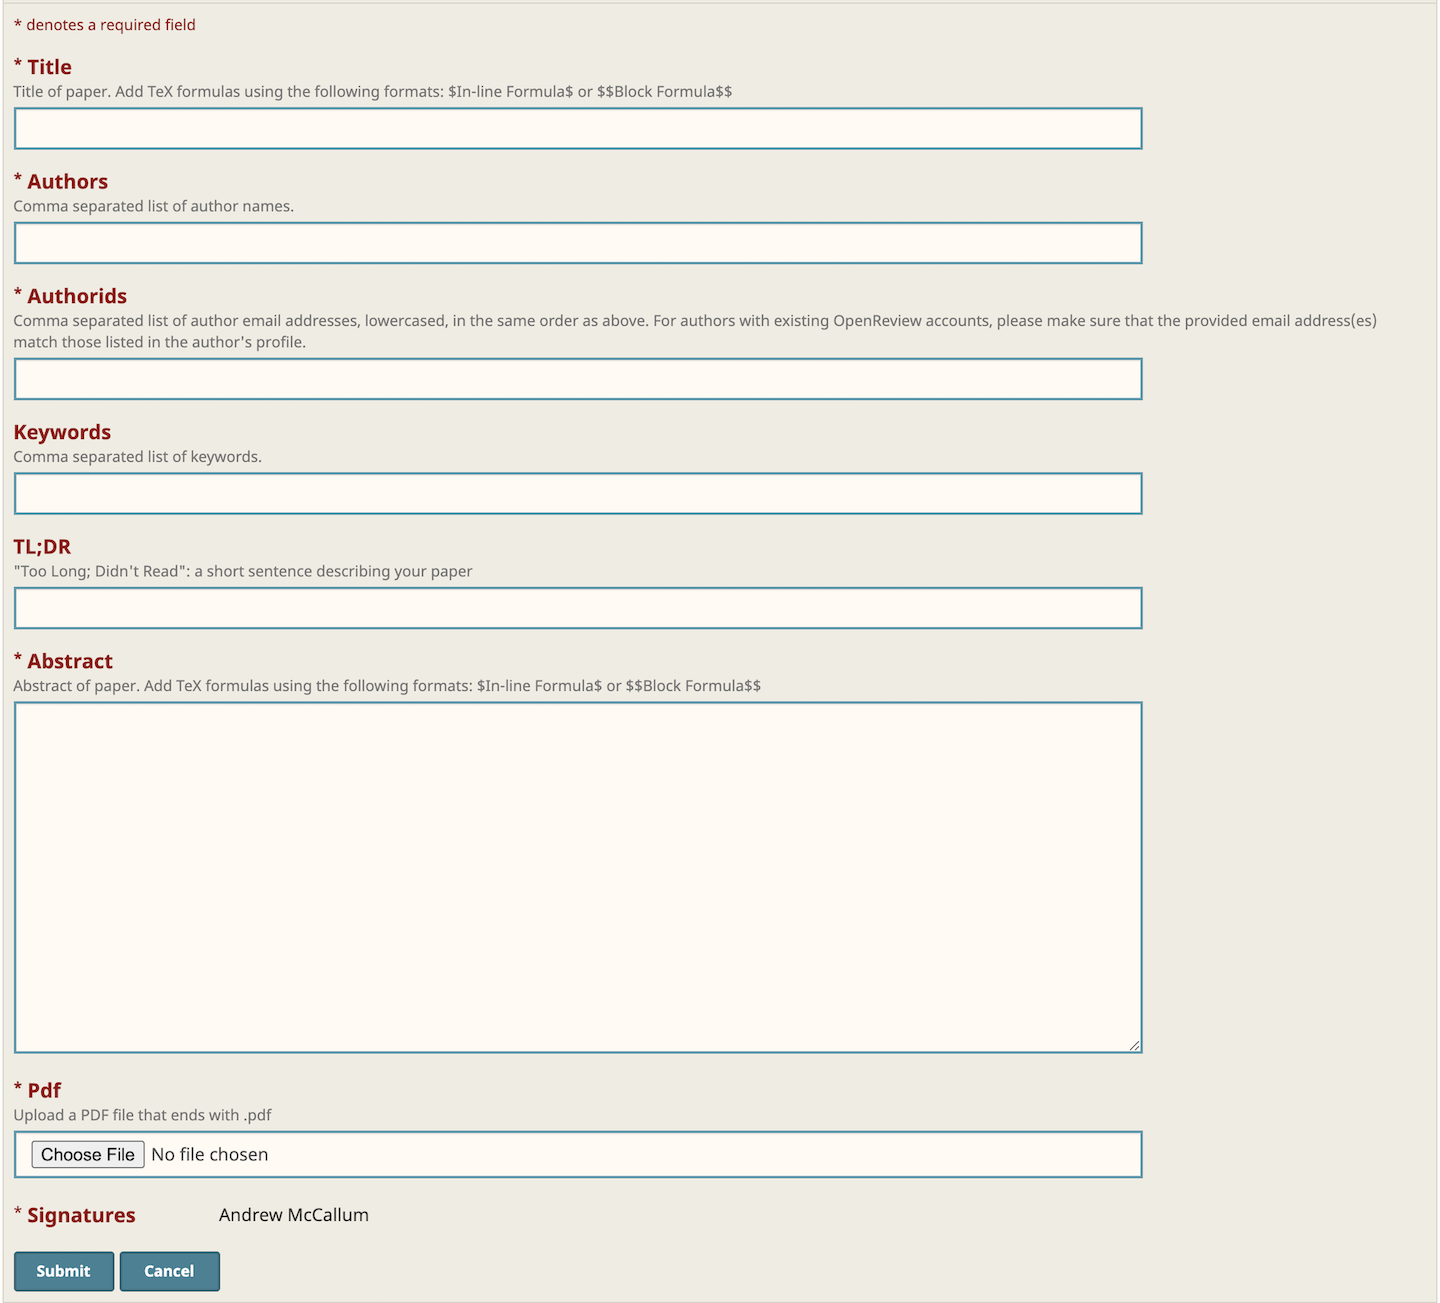
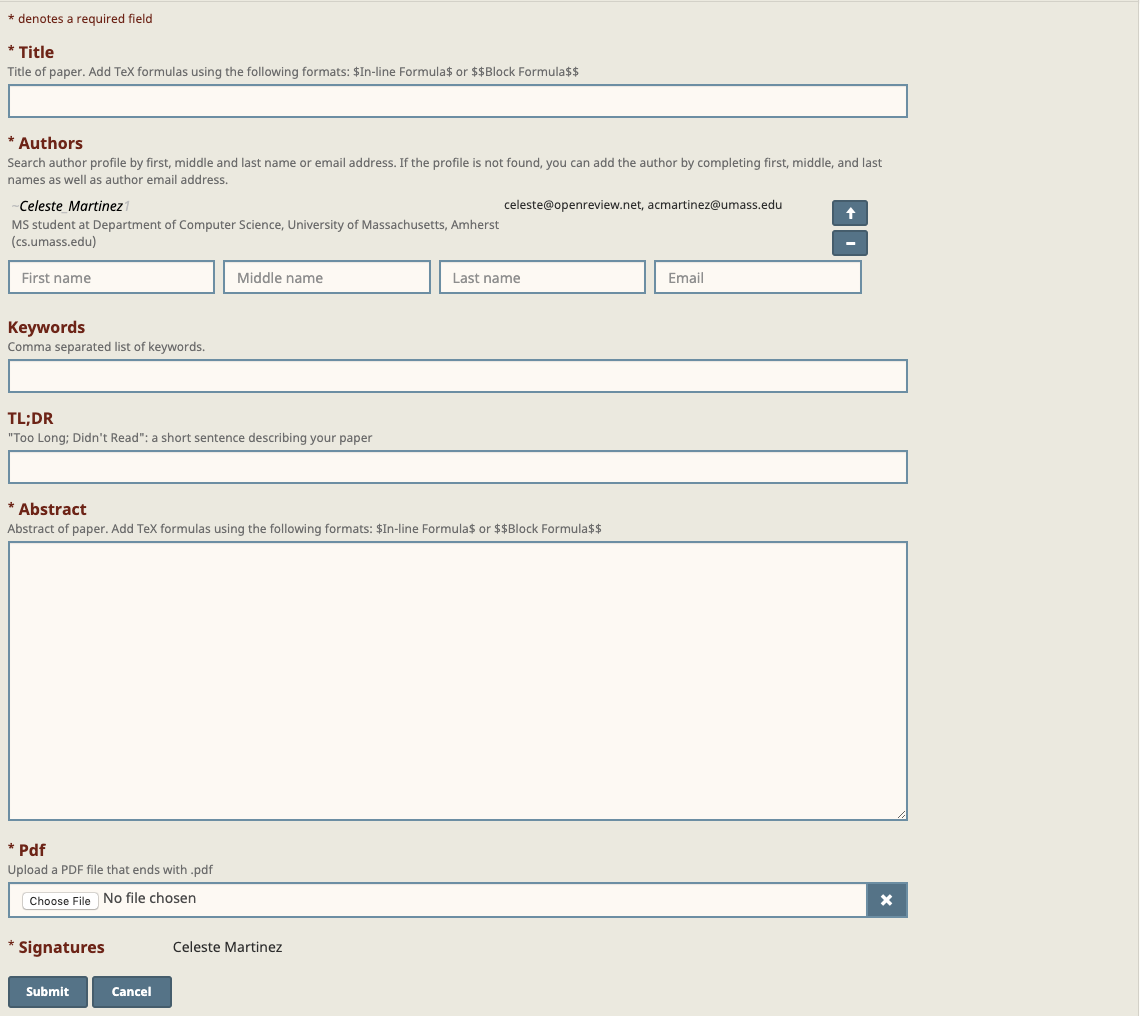
Add question about post submission button and fix typos

Changed region(s): [[0.0, 0.0, 0.9518, 1.0], [0.7368, 0.8543, 0.7982, 0.9154]]

diff --git a/pages/faq.js b/pages/faq.js
@@ -270,6 +270,14 @@ which will be displayed as:
 
   For more information on supported field types, [click here.](/faq#question-field-type-supported)`,
   }, {
+    q: 'How do I make submissions available before the submission deadline?',
+    id: 'question-post-submission-button',
+    a: `On the request form for your venue, click on the ‘Post Submission’ button to make submissions available according to the settings selected in the fields ‘Author and Reviewer Anonymity’ and ‘Open Reviewing Policy’ of the venue request.
+  This means that:
+  - If submission are double blind, blind copies of submissions will be created (make sure to select Force=True). You can also choose which fields are kept hidden (author names are automatically hidden).
+  - If submissions should be public, then they will be released to everyone.
+  - If submissions are private, then they will be released to area chairs and reviewers.`,
+  }, {
     q: 'How do I make reviews visible to authors?',
     id: 'question-release-reviews-authors',
     a: 'On the request form for your venue, click on the ‘Review Stage’ button. Select Yes under Release Reviews to Authors and then submit. This will immediately release any existing reviews to authors and make subsequent posted reviews readily available to authors.',
@@ -288,7 +296,10 @@ which will be displayed as:
   }, {
     q: 'How can I automatically assign reviewers to papers based on their affinity and/or bids?',
     id: 'question-run-matcher',
-    a: 'To automatically assign reviewers to papers after the submission deadline has passed, you must first set the review stage by clicking on the ‘Review Stage’ button on the request form for your venue. You will then be able to run the matcher by clicking on ‘Reviewers Paper Assignment’ under the ‘Overview’ tab in the PC console.',
+    a: `To automatically assign reviewers to papers after the submission deadline has passed, you must first set the review stage by clicking on the ‘Review Stage’ button on the request form for your venue. You will then be able to run the matcher by clicking on ‘Reviewers Paper Assignment’ under the ‘Overview’ tab in the PC console.
+
+  Once you are satisfied with the paper assignment, click on the 'Deploy' button next to the configuration you would like to deploy. Note that deploying an assignment does not send an email to reviewers about their new assignments.
+  For more information on how to contact reviewers, [click here.](/faq#question-contact-venue-roles)`,
   }, {
     q: 'How can I enable comments on papers?',
     id: 'question-enable-comments',
@@ -393,7 +404,7 @@ You can have different types of fields:
 - **value-regex**, **values-regex**: string or array of strings; the value entered by the user should pass the regex validation.
 
     \`\`\`
-    "comment": {
+    "title": {
       "order": 0,
       "value-regex": ".{1,500}",
       "description": "Brief summary of your comment.",
@@ -510,30 +521,31 @@ You can have different types of fields:
       "authors": {
           "description": "Comma separated list of author names.",
           "order": 2,
-          "values-regex": "[^;,\\n]+(,[^,\\n]+)*",
-          "required": true
+          "values-regex": "[^;,\\\\n]+(,[^,\\\\n]+)*",
+          "required": true,
+          "hidden" true
       },
       "authorids": {
-          "description": "Comma separated list of author email addresses, lowercased, in the same order as above. For authors with existing OpenReview accounts, please make sure that the provided email address(es) match those listed in the author's profile.",
+          "description": "Search author profile by first, middle and last name or email address. If the profile is not found, you can add the author by completing first, middle, and last names as well as author email address.",
           "order": 3,
-          "values-regex": "([a-z0-9_\\-\\.]{1,}@[a-z0-9_\\-\\.]{2,}\\.[a-z]{2,},){0,}([a-z0-9_\\-\\.]{1,}@[a-z0-9_\\-\\.]{2,}\\.[a-z]{2,})",
+          "values-regex": "~.*|([a-z0-9_\\\\-\\\\.]{1,}@[a-z0-9_\\\\-\\\\.]{2,}\\\\.[a-z]{2,},){0,}([a-z0-9_\\\\-\\\\.]{1,}@[a-z0-9_\\\\-\\\\.]{2,}\\\\.[a-z]{2,})",
           "required": true
       },
       "keywords": {
           "description": "Comma separated list of keywords.",
           "order": 6,
-          "values-regex": "(^$)|[^;,\\n]+(,[^,\\n]+)*"
+          "values-regex": "(^$)|[^;,\\\\n]+(,[^,\\\\n]+)*"
       },
       "TL;DR": {
           "description": "\\"Too Long; Didn't Read\\": a short sentence describing your paper",
           "order": 7,
-          "value-regex": "[^\\n]{0,250}",
+          "value-regex": "[^\\\\n]{0,250}",
           "required": false
       },
       "abstract": {
           "description": "Abstract of paper. Add TeX formulas using the following formats: $In-line Formula$ or $$Block Formula$$",
           "order": 8,
-          "value-regex": "[\\S\\s]{1,5000}",
+          "value-regex": "[\\\\S\\\\s]{1,5000}",
           "required": true
       },
       "pdf": {
@@ -543,7 +555,7 @@ You can have different types of fields:
               "fileTypes": [
                   "pdf"
               ],
-              "size": 50000000
+              "size": 50
           },
           "required": true
       }
@@ -566,7 +578,7 @@ You can have different types of fields:
       },
       "review": {
           "order": 2,
-          "value-regex": "[\\S\\s]{1,200000}",
+          "value-regex": "[\\\\S\\\\s]{1,200000}",
           "description": "Please provide an evaluation of the quality, clarity, originality and significance of this work, including a list of its pros and cons (max 200000 characters). Add formatting using Markdown and formulas using LaTeX. For more information see https://openreview.net/faq",
           "required": true,
           "markdown": true
@@ -611,7 +623,7 @@ You can have different types of fields:
     {
       "metareview": {
           "order": 1,
-          "value-regex": "[\\S\\s]{1,5000}",
+          "value-regex": "[\\\\S\\\\s]{1,5000}",
           "description": "Please provide an evaluation of the quality, clarity, originality and significance of this work, including a list of its pros and cons. Your comment or reply (max 5000 characters). Add formatting using Markdown and formulas using LaTeX. For more information see https://openreview.net/faq",
           "required": true,
           "markdown": true
@@ -655,7 +667,7 @@ You can have different types of fields:
       },
       "comment": {
           "order": 1,
-          "value-regex": "[\\S\\s]{1,5000}",
+          "value-regex": "[\\\\S\\\\s]{1,5000}",
           "description": "Your comment or reply (max 5000 characters). Add formatting using Markdown and formulas using LaTeX. For more information see https://openreview.net/faq",
           "required": true,
           "markdown": true
@@ -689,7 +701,7 @@ You can have different types of fields:
       "comment": {
           "order": 3,
           "required": false,
-          "value-regex": "[\\S\\s]{0,5000}",
+          "value-regex": "[\\\\S\\\\s]{0,5000}",
           "description": ""
       }
     }
